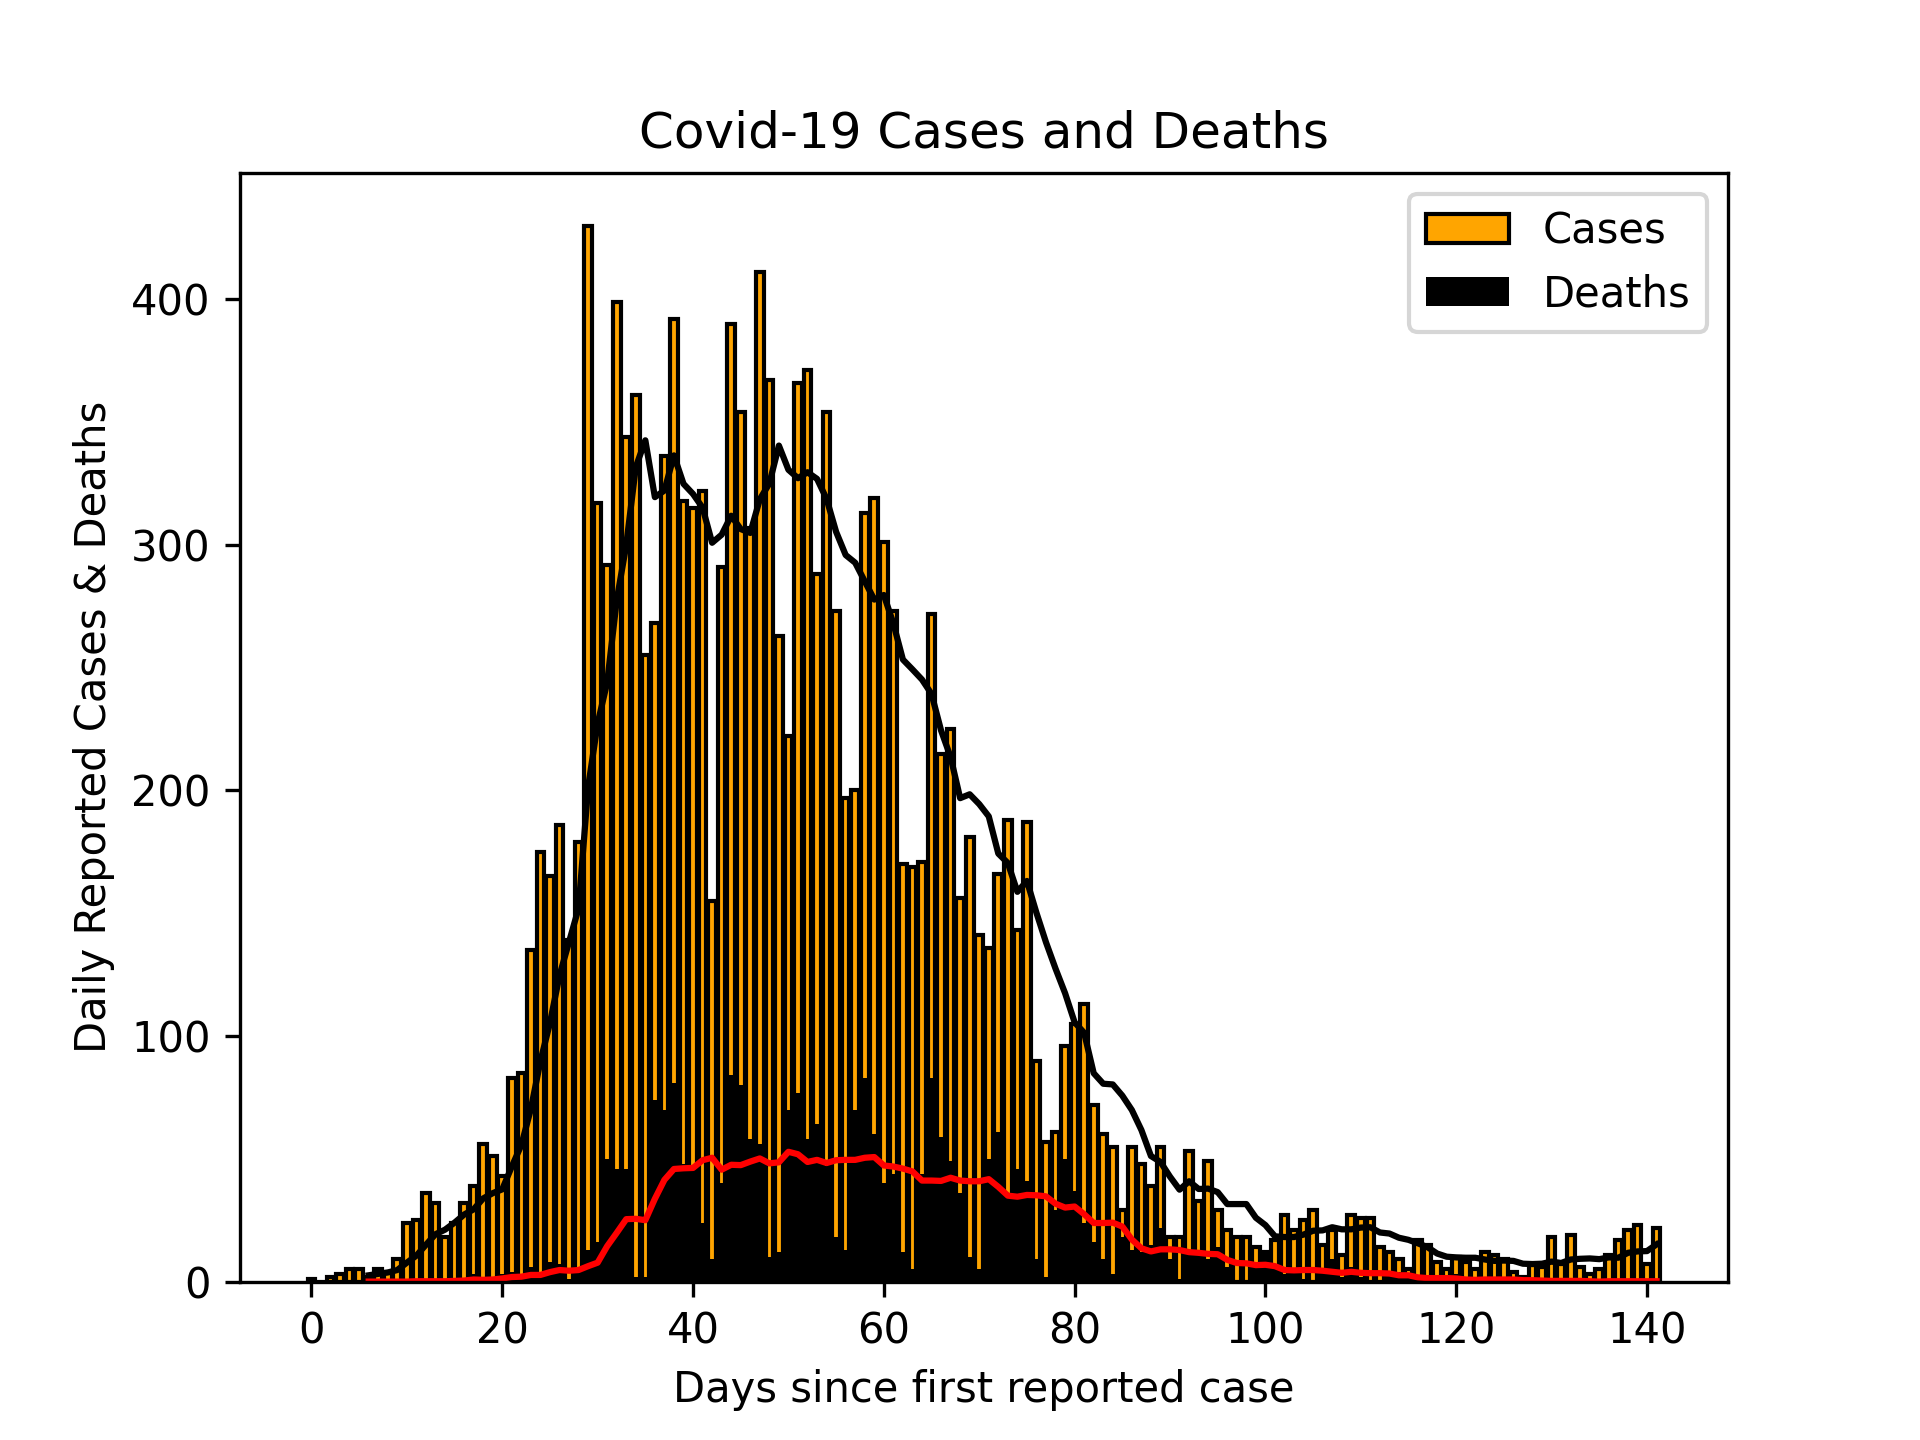
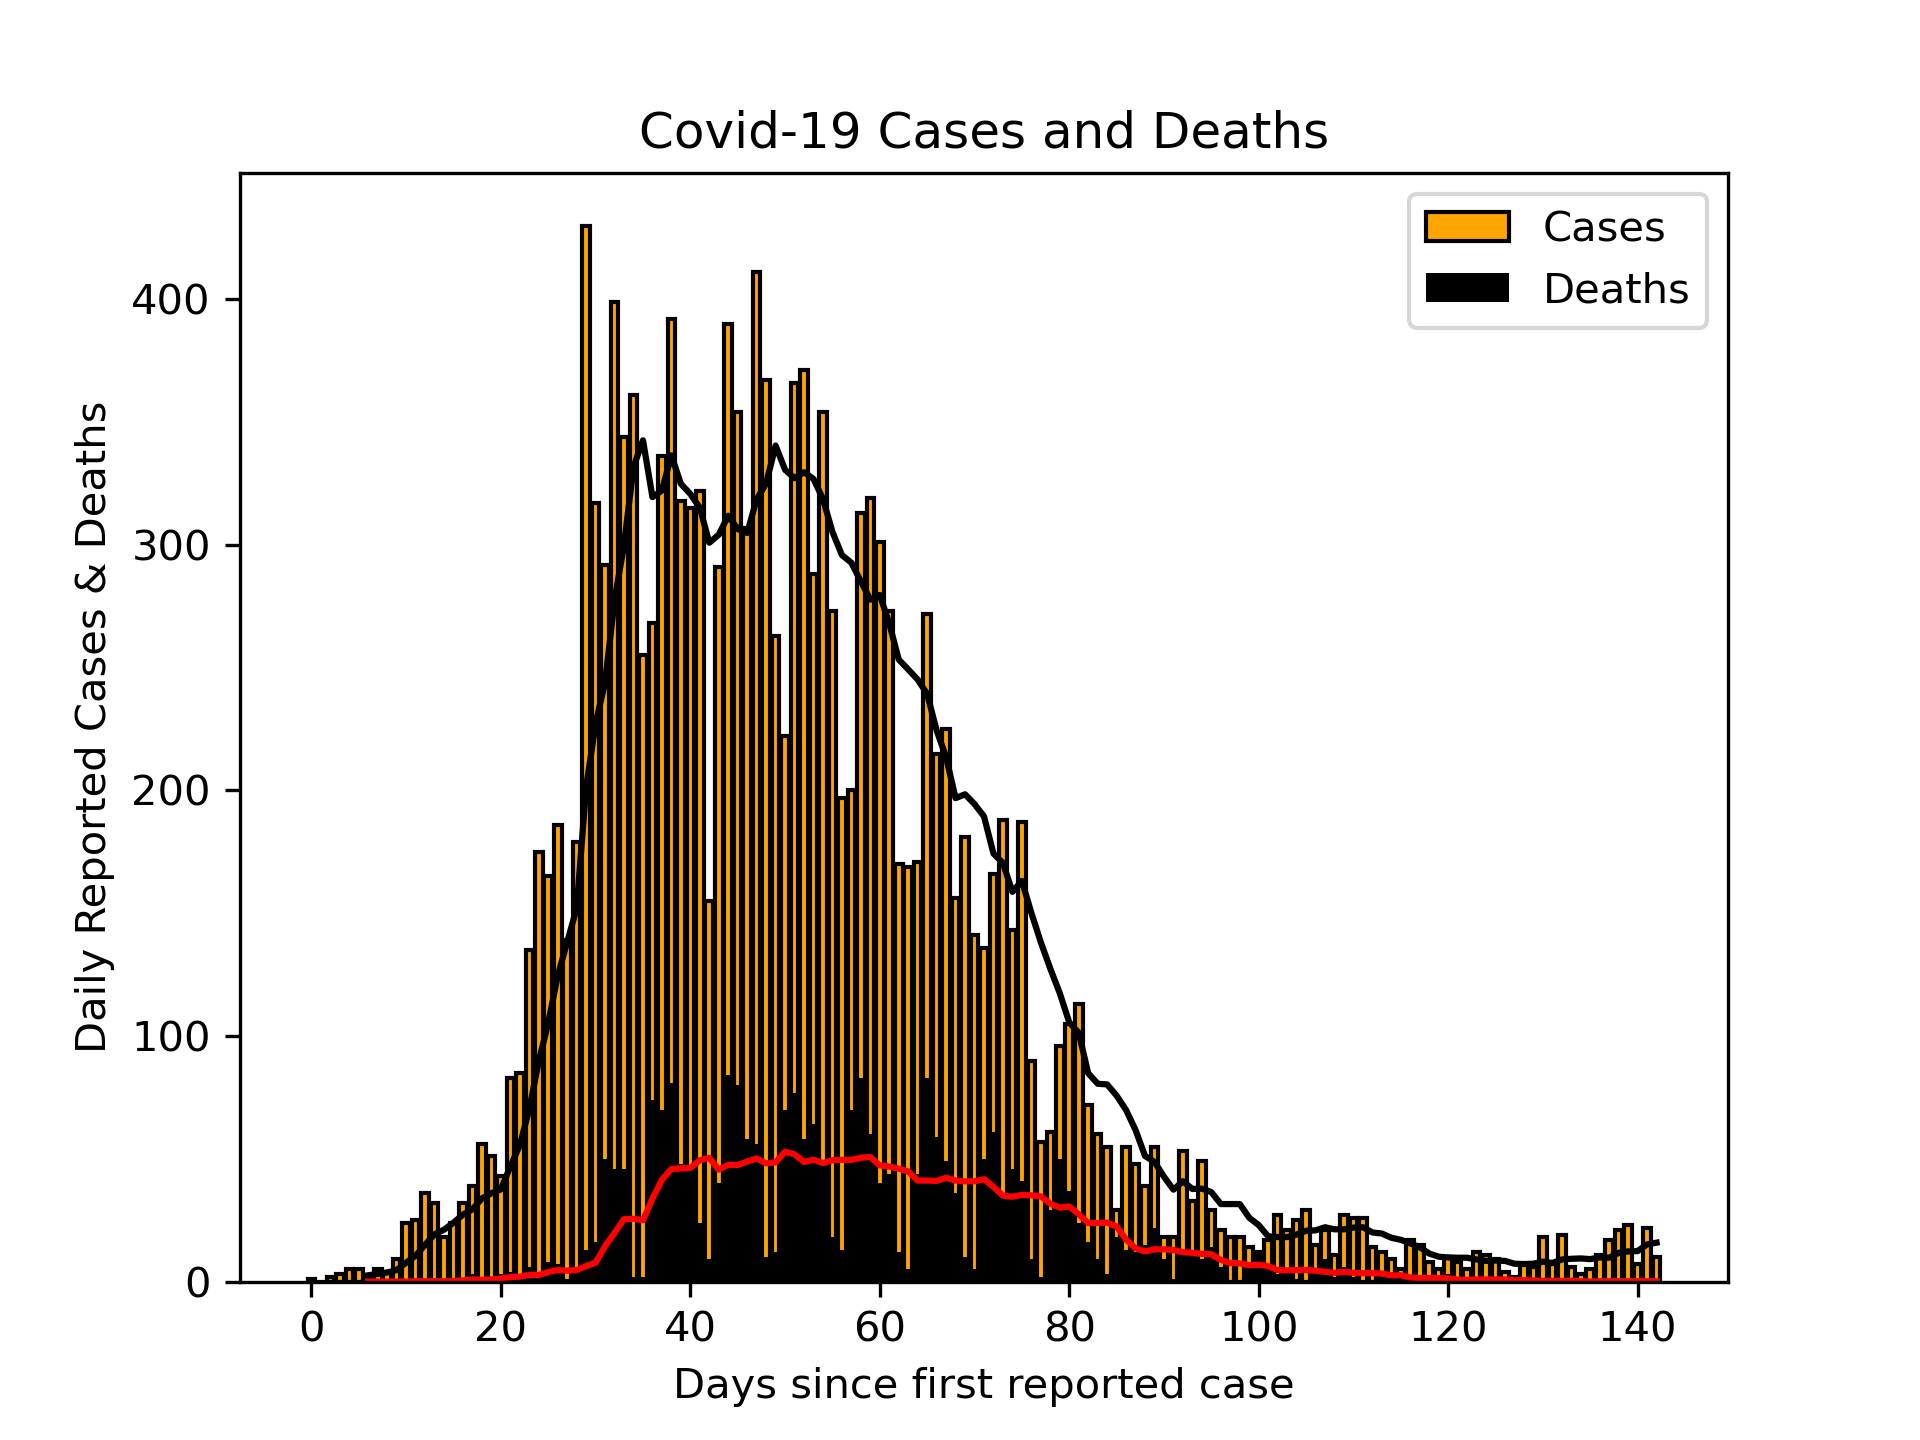
Updated Scottish cases 22/07/20

Changed region(s): [[0.2188, 0.1562, 0.875, 1.0], [0.75, 0.1562, 0.875, 0.25]]

diff --git a/README.md b/README.md
@@ -1,3 +1,3 @@
-# Scottish Cases 21/07/20
+# Scottish Cases 22/07/20
 ![alt](scottish_cases.png)
 
